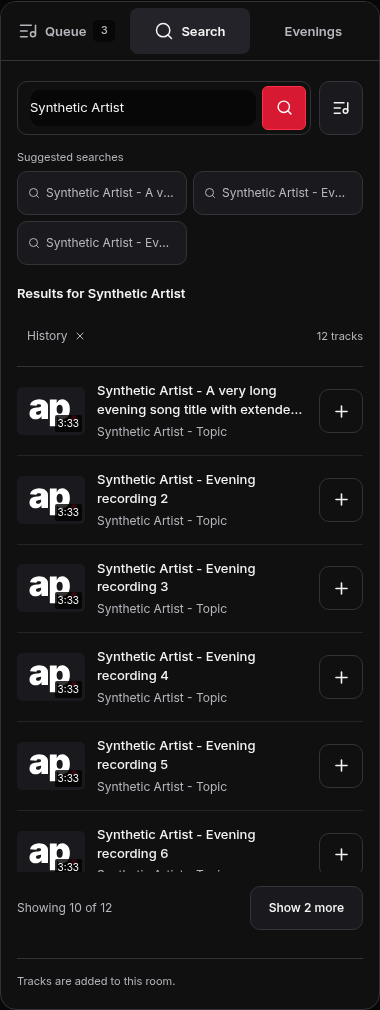
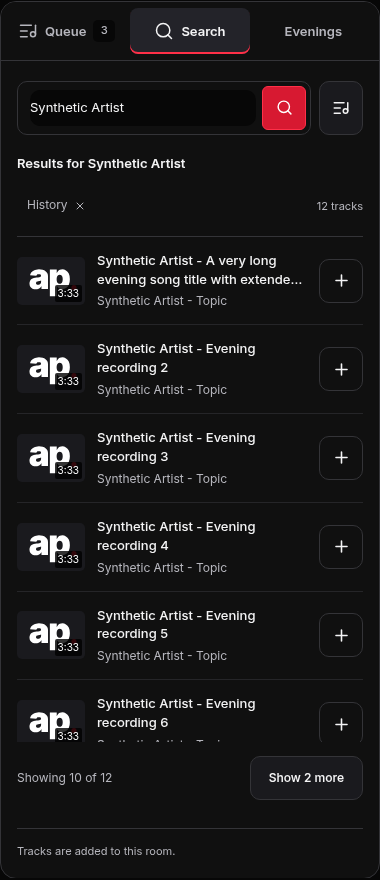
Open suggestions only during active search and retain red accents

diff --git a/scripts/search.browser.ts b/scripts/search.browser.ts
@@ -67,7 +67,6 @@ async function fixture(width: number, language = "en") {
   });
   await page.goto(base + "/?room=TESTROOM");
   await page.locator("#music-tab").click();
-  await page.getByRole("button", { name: language === "en" ? "Search for Current Artist" : "Søk etter Current Artist", exact: true }).waitFor();
   await page.locator(".music-row").filter({ hasText: "History Artist - Earlier Song" }).waitFor();
   return { page, errors, searches, writes, results,
     hold(query: string) { const held = gate(); holds.set(query, held); allHolds.push(held); return held; },
@@ -80,6 +79,27 @@ for (const [width, language] of [[1440, "en"], [390, "en"], [390, "nb"]] as cons
     const f = await fixture(width, language);
     try {
       const { page } = f, suggestion = page.getByRole("button", { name: language === "en" ? "Search for Current Artist" : "Søk etter Current Artist", exact: true });
+      const searchInput = page.locator(".search-form input");
+      assert.equal(await page.locator(".search-suggestions").count(), 0, "entering Search does not open suggestions before input intent");
+      assert(await page.locator("#music-tab").evaluate(tab => tab === document.activeElement), "tab navigation retains focus until the search input is activated");
+      await searchInput.focus(); await suggestion.waitFor();
+      await page.keyboard.press("Tab");
+      assert.equal(await page.locator(".search-suggestions").count(), 1, "keyboard movement within the search tools keeps suggestions available");
+      await page.locator(".search-chips button").first().click();
+      await page.locator(".search-suggestions").waitFor({ state: "hidden" });
+      await searchInput.focus(); await suggestion.waitFor();
+      await suggestion.focus();
+      await page.keyboard.press("Escape");
+      await page.locator(".search-suggestions").waitFor({ state: "hidden" });
+      assert(await searchInput.evaluate(input => input === document.activeElement), "Escape returns keyboard focus to the search input");
+      await searchInput.click(); await suggestion.waitFor();
+      await searchInput.fill("Current"); await suggestion.waitFor();
+      await searchInput.fill("");
+      await page.locator("#queue-tab").click();
+      assert.equal(await page.locator(".search-suggestions").count(), 0);
+      await page.locator("#music-tab").click();
+      assert.equal(await page.locator(".search-suggestions").count(), 0, "returning to Search starts with suggestions closed");
+      await page.locator(".search-form input").focus(); await suggestion.waitFor();
       assert.equal(f.searches.length, 0, "showing suggestions cannot start provider searches");
       assert(await page.locator(".search-suggestions button").count() <= 4);
       assert.equal(await page.locator(".search-suggestions").getByText("Trap Nation", { exact: true }).count(), 0);
@@ -95,11 +115,13 @@ for (const [width, language] of [[1440, "en"], [390, "en"], [390, "nb"]] as cons
         }
       }
       await page.screenshot({ path: `/tmp/afterparty-search-suggestions-${width}-${language}.png`, fullPage: true });
+      await page.locator(".library-panel").screenshot({ path: `/tmp/afterparty-focused-search-panel-${width}-${language}.png` });
       await suggestion.focus(); await page.keyboard.press("Enter");
       await page.locator(".search-result-query").getByText(language === "en" ? "Results for Current Artist" : "Resultater for Current Artist", { exact: true }).waitFor();
       await page.locator(".music-row").nth(9).waitFor();
       assert.equal(await page.locator(".music-row").count(), 10);
       assert.deepEqual(f.searches, ["Current Artist"]);
+      assert.equal(await page.locator(".search-suggestions").count(), 0, "choosing a suggestion closes it without altering the exact request");
       const more = page.getByRole("button", { name: language === "en" ? "Show 10 more" : "Vis 10 flere", exact: true });
       await more.focus(); await page.keyboard.press("Enter");
       await page.locator(".music-row").nth(19).waitFor(); assert.equal(await page.locator(".music-row").count(), 20);

diff --git a/components/party/music-discovery.tsx b/components/party/music-discovery.tsx
@@ -52,6 +52,7 @@ export function MusicDiscovery({
   const { t } = useLanguage();
   const descriptionId = useId();
   const [expanded, setExpanded] = useState({ key: "", count: 10 });
+  const [suggestionsOpen, setSuggestionsOpen] = useState(false);
   const resultKey = resultQuery + ":" + shown.map(video => video.id).join(",");
   const visibleCount = searched && expanded.key === resultKey ? expanded.count : 10;
   const visible = searched ? shown.slice(0, visibleCount) : shown;
@@ -75,12 +76,16 @@ export function MusicDiscovery({
       className="discovery"
       aria-busy={searching || adding}
     >
+      <div className="discovery-search-area"
+        onBlur={event => { if (!event.currentTarget.contains(event.relatedTarget)) setSuggestionsOpen(false); }}
+        onKeyDown={event => { if (event.key === "Escape") { event.preventDefault(); event.stopPropagation(); event.currentTarget.querySelector<HTMLInputElement>("input")?.focus(); setSuggestionsOpen(false); } }}>
       <div className="discovery-search-tools">
         <form
           className="search-form"
           onSubmit={(e) => {
             e.preventDefault();
             setExpanded({ key: "", count: 10 });
+            setSuggestionsOpen(false);
             onSearch();
           }}
         >
@@ -88,7 +93,9 @@ export function MusicDiscovery({
             aria-label={t("Søk etter låt, artist eller YouTube-lenkje")}
             placeholder={t("Låt, artist eller YouTube-lenkje")}
             value={query}
-            onChange={(e) => onQuery(e.target.value)}
+            onFocus={() => setSuggestionsOpen(true)}
+            onClick={() => setSuggestionsOpen(true)}
+            onChange={(e) => { setSuggestionsOpen(true); onQuery(e.target.value); }}
             maxLength={2000}
             minLength={2}
             required
@@ -113,12 +120,12 @@ export function MusicDiscovery({
           </button>
         )}
       </div>
-      {suggestions.length > 0 && (
+      {suggestionsOpen && !searching && suggestions.length > 0 && (
         <div className="search-suggestions" role="group" aria-label={t("Suggested searches")}>
           <span>{t("Suggested searches")}</span>
           <div>
             {suggestions.map(suggestion => (
-              <button type="button" key={suggestion} onClick={() => { setExpanded({ key: "", count: 10 }); onSuggestion(suggestion); }}
+              <button type="button" key={suggestion} onClick={() => { setSuggestionsOpen(false); setExpanded({ key: "", count: 10 }); onSuggestion(suggestion); }}
                 aria-label={t("Search for {query}", { query: suggestion })} title={suggestion}>
                 <Search size={12} aria-hidden="true" />
                 <span>{suggestion}</span>
@@ -127,6 +134,7 @@ export function MusicDiscovery({
           </div>
         </div>
       )}
+      </div>
       <div className="discovery-results-header">
         {searched && <p className="search-result-query" title={resultQuery}>{t("Results for {query}", { query: resultQuery })}</p>}
         <div className="discovery-results-controls">

diff --git a/app/interface.css b/app/interface.css
@@ -174,13 +174,14 @@ body::before { background:none; }
 .concert-shell .video-settings summary:hover { color:var(--text); }
 .concert-shell .video-settings summary::after { color:var(--muted); }
 .settings-tabs { background:var(--bg); border:1px solid var(--line); }
-.settings-tabs [role=tab][aria-selected=true] { border-color:var(--line); background:var(--panel2); color:var(--text); }
+.settings-tabs [role=tab][aria-selected=true] { border-color:var(--line); background:var(--panel2); color:var(--text); box-shadow:inset 0 -2px var(--accent); }
 .video-settings .video-settings-body { padding-block:16px; }
 .video-settings .party-tools .display-name { font-size:13px; }
 
 .concert-shell .library-tabs { background:var(--panel); border-color:var(--line); padding:6px; gap:4px; }
 .concert-shell .library-tabs button { min-height:46px; border-radius:8px; color:var(--muted); font-size:13px; gap:7px; }
-.concert-shell .library-tabs button[aria-selected=true] { color:var(--text); background:var(--surface-hover); box-shadow:none; }
+.concert-shell .library-tabs button[aria-selected=true] { color:var(--text); background:var(--surface-hover); box-shadow:inset 0 -2px var(--accent); }
+.admin-shell .admin-tabs button[aria-pressed=true] { box-shadow:inset 0 -2px var(--accent); }
 .concert-shell .library-tabs button>.tab-count { color:var(--muted); background:var(--bg); border-radius:5px; }
 .concert-shell .panel-heading { padding:20px 20px 8px; color:var(--text); font-size:12px; }
 .concert-shell .panel-heading small { color:var(--muted); }

diff --git a/app/afterparty.tsx b/app/afterparty.tsx
@@ -191,6 +191,7 @@ export default function Afterparty() {
     busy = useRef(false),
     pollGeneration = useRef(0),
     searchGeneration = useRef(0),
+    searchFocusRequested = useRef(false),
     searchRequest = useRef<AbortController | null>(null),
     lastEnded = useRef(""),
     actionRef = useRef<
@@ -396,6 +397,7 @@ export default function Afterparty() {
             ),
       );
       setSharing(false);
+      searchFocusRequested.current = true;
       setPanel("music");
       if (firstQuery.trim()) void find(firstQuery);
       if (queuedVideo.current) {
@@ -720,11 +722,13 @@ export default function Afterparty() {
     };
   }, [join, accept]);
   useEffect(() => {
+    const focusRequested = searchFocusRequested.current;
+    searchFocusRequested.current = false;
     if (panel === "music" && !directoryOpen && !tv) {
       requestAnimationFrame(() => {
         const input =
           document.querySelector<HTMLInputElement>(".search-form input");
-        input?.focus({ preventScroll: true });
+        if (focusRequested) input?.focus({ preventScroll: true });
         input?.scrollIntoView({
           block: "center",
           behavior: matchMedia("(prefers-reduced-motion: reduce)").matches
@@ -733,7 +737,7 @@ export default function Afterparty() {
         });
       });
     }
-  }, [panel, directoryOpen, tv]);
+  }, [panel, directoryOpen, tv, room?.code]);
   const toggleTV = () => {
     const next = !tv;
     setTV(next);

diff --git a/app/discovery.css b/app/discovery.css
@@ -26,7 +26,7 @@
 }
 .concert-shell .library-panel .discovery .search-form:focus-within,
 .discovery .search-form:focus-within {
-  border-color:var(--muted);
+  border-color:var(--accent);
   box-shadow:0 0 0 2px color-mix(in srgb,var(--focus-ring) 15%,transparent);
 }
 .concert-shell .library-panel .discovery .search-form input,
@@ -108,7 +108,7 @@
   line-height:1.4;
 }
 .concert-shell .library-panel .discovery .search-chips button.selected,
-.discovery .search-chips button.selected { background:var(--panel2); border-color:var(--line); color:var(--text); }
+.discovery .search-chips button.selected { background:var(--panel2); border-color:var(--line); color:var(--text); box-shadow:inset 0 -2px var(--accent); }
 .discovery .search-chips button:hover { background:var(--panel2); border-color:var(--line); color:var(--text); }
 .discovery .discovery-summary { min-height:0; margin:0; color:var(--muted); font-size:11px; line-height:1.5; }
 .discovery .discovery-summary:empty { display:none; }

diff --git a/scripts/ui-review.browser.ts b/scripts/ui-review.browser.ts
@@ -157,6 +157,8 @@ try {
       await page.locator("#queue-tab").click(); await page.locator(".afterparty-queue-track").first().waitFor();
       await inspect("room-queue");
       await page.locator("#music-tab").click();
+      assert.equal(await page.locator(".search-suggestions").count(), 0, "Suggestions stay closed until input focus");
+      await page.locator(".search-form input").focus();
       await page.locator(".search-suggestions button").first().waitFor();
       await inspect("search-suggestions", ".search-suggestions button,.search-form button");
       const suggestion = page.locator(".search-suggestions button").first();

diff --git a/scripts/party.browser.ts b/scripts/party.browser.ts
@@ -293,7 +293,7 @@ try {
   assert.equal(page.url(), previous);
   await page.getByRole("tab", { name: "Kveldar", exact: true }).click();
   assert(
-    await page.getByText("Kvelden vår · 2 låtar", { exact: true }).count(),
+    await page.getByText("Kvelden vår · 2 sanger", { exact: true }).count(),
   );
   assert.equal(
     await page.evaluate(() => document.documentElement.scrollWidth),

diff --git a/docs/UI_REVIEW.md b/docs/UI_REVIEW.md
@@ -8,7 +8,7 @@ The scope is the existing website, with its current routes, permissions and musi
 | Shared navigation and controls | Mixed pink/red control surfaces, inconsistent sizes and small mobile targets | Neutral shared tokens, consistent controls, visible keyboard focus and 44-pixel main targets |
 | Welcome and room entry | Competing accent colors and inconsistent heading/control proportions | Calmer typography, neutral secondary actions and consistent dialog fields |
 | Player and room settings | Large title overlays, tinted everyday fields and nested extras cards | Smaller title overlays, neutral settings, flat extras disclosure and retained player controls |
-| Search and history | Long stacked suggestions, detached playlist action, disconnected sorting/count and red add buttons | Grouped search/import tools, bounded suggestion rows, one results header and neutral add controls |
+| Search and history | Long stacked suggestions, detached playlist action, disconnected sorting/count and red add buttons | Grouped search/import tools, focus-triggered suggestion rows, one results header and neutral add controls |
 | Queue and saved evenings | Mixed text glyph controls and dense local tools | Consistent icons with existing accessible labels, clearer rows, bounded festival scrolling and on-demand local backup tools |
 | Games | Oversized headings, decorative category boxes and joined heading words in compact mode | Smaller headings, simpler categories, neutral status surfaces and corrected word spacing |
 | Administration | Legacy red surfaces, tiny supporting text and an obsolete idle mark | Neutral operational controls, bounded fields, clearer groups and the canonical monogram |
@@ -18,6 +18,11 @@ The scope is the existing website, with its current routes, permissions and musi
 Search matching, suggested query values, AI exclusions, pagination and queue
 commands are preserved. Server authorization, queue revisions, playback clocks,
 audio source selection and the alpha quiz configuration remain unchanged.
+Suggestions open while the search input is active, remain keyboard-reachable,
+and close on Escape, search submission, selection or leaving the search tools.
+Returning to the Search tab does not reopen them automatically. Red accents
+remain on active controls and primary actions; fields and secondary surfaces
+stay neutral.
 
 The reproducible local audit is `npm run test:ui-review`, with `PREVIEW_URL`
 pointing to a loopback preview and `CHROMIUM_PATH` set when needed. It covers
@@ -32,10 +37,14 @@ check includes lint, both typechecks, website/Core/recovery tests and the
 production build. Review screenshots represent controlled fixtures, not a
 production deployment or real-device listening test.
 
-The final production Worker passed the complete 81-capture audit with zero
+The broad production Worker review passed the complete 81-capture audit with zero
 findings. The shared full check passed 737 Core tests, 158 website tests and 93
 recovery tests, both typechecks, zero-warning lint and production build. The TV
 height regression found during the first audit was repaired and rechecked.
+The focused-search follow-up passed five search browser cases, 20 narrow/tablet
+and 32 desktop audit captures, the room-setup workflow including first-search
+focus, and responsive canonical notes checks. Active tabs retain red indicators;
+the screenshot below shows results with the suggestions closed.
 
 [Search panel](assets/ui-search-alpha14.png) ·
 [Short landscape TV layout](assets/ui-tv-short-alpha14.png)

diff --git a/CHANGELOG.md b/CHANGELOG.md
@@ -8,8 +8,8 @@ See [release policy](docs/RELEASING.md).
 
 2026-10-21
 
-- Music, rooms, player settings, games, administration and information pages share neutral dark surfaces, clearer typography, consistent spacing and visible keyboard focus. Red is reserved for primary actions and meaningful status instead of tinting everyday fields and secondary controls.
-- Search groups its input and playlist action, keeps up to four suggested queries in compact rows and aligns history sorting with the result count. Suggestions retain their full accessible labels and exact queries. Track rows have readable metadata and neutral 44-pixel add controls; result pagination, AI exclusions and queue commands keep their existing behavior.
+- Music, rooms, player settings, games, administration and information pages share neutral dark surfaces, clearer typography, consistent spacing and visible keyboard focus. The red accent remains on active controls, primary actions and meaningful status instead of tinting everyday fields and secondary surfaces.
+- Search groups its input and playlist action, and only opens suggestions when the input is activated. Suggestions remain reachable with the keyboard and close on Escape, submission, selection or leaving the search tools. Returning to the Search tab keeps them closed until the input is activated again. Up to four suggestions retain their full accessible labels and exact queries. History sorting aligns with the result count, and track rows use readable metadata and neutral 44-pixel add controls. Result pagination, AI exclusions and queue commands keep their existing behavior.
 - Queue and saved-library actions use consistent icons with their existing accessible names. Festival sets have a bounded list, local library backup tools open on request, and playlist imports remain directly accessible. Shared controls and dialogs retain usable touch targets on narrow screens.
 - TV invitations fit short landscape displays without pushing the page beyond the viewport. The video retains its 16:9 slot, fullscreen controls remain reachable and switching views keeps the active player.
 - Games, server administration, support, installation, patch notes and copyright forms use the same visual hierarchy. Server permissions, queue revisions, playback synchronization, source selection and audio behavior are unchanged. This is an alpha interface update; local visual and browser checks do not establish production deployment or live listening quality.

diff --git a/docs/BRANDING.md b/docs/BRANDING.md
@@ -33,7 +33,8 @@ without wrapping the navigation or shrinking touch targets.
 Shared application chrome lives in `app/interface.css`, loaded after the feature
 styles. Discovery and library styles stay scoped to their own surfaces. Use the
 shared neutral surface, border and muted-text tokens for everyday fields,
-secondary buttons and selected tabs. Reserve the red accent for primary actions,
+secondary buttons and selected tabs. Selected controls keep a restrained red
+indicator. Reserve the red accent for active controls, primary actions,
 meaningful playback/status indicators and destructive intent. Keep short labels
 readable, preserve full accessible names when display text is truncated, and use
 at least 44-pixel targets for the main touch controls. See the
